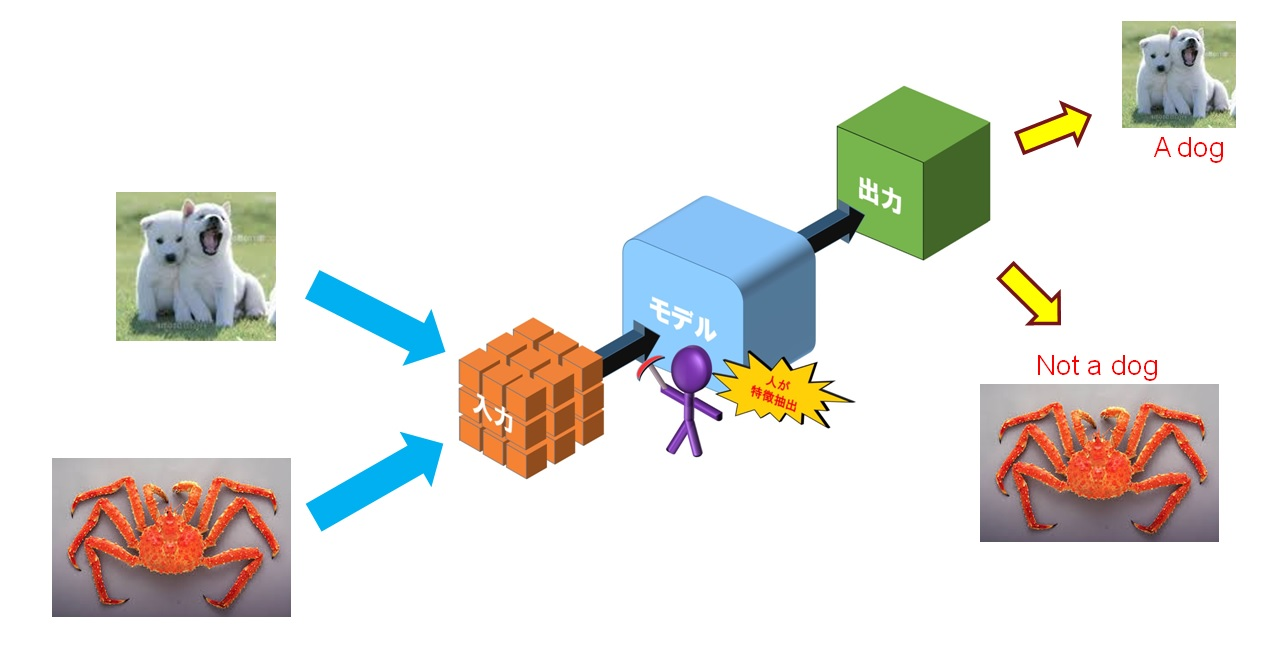
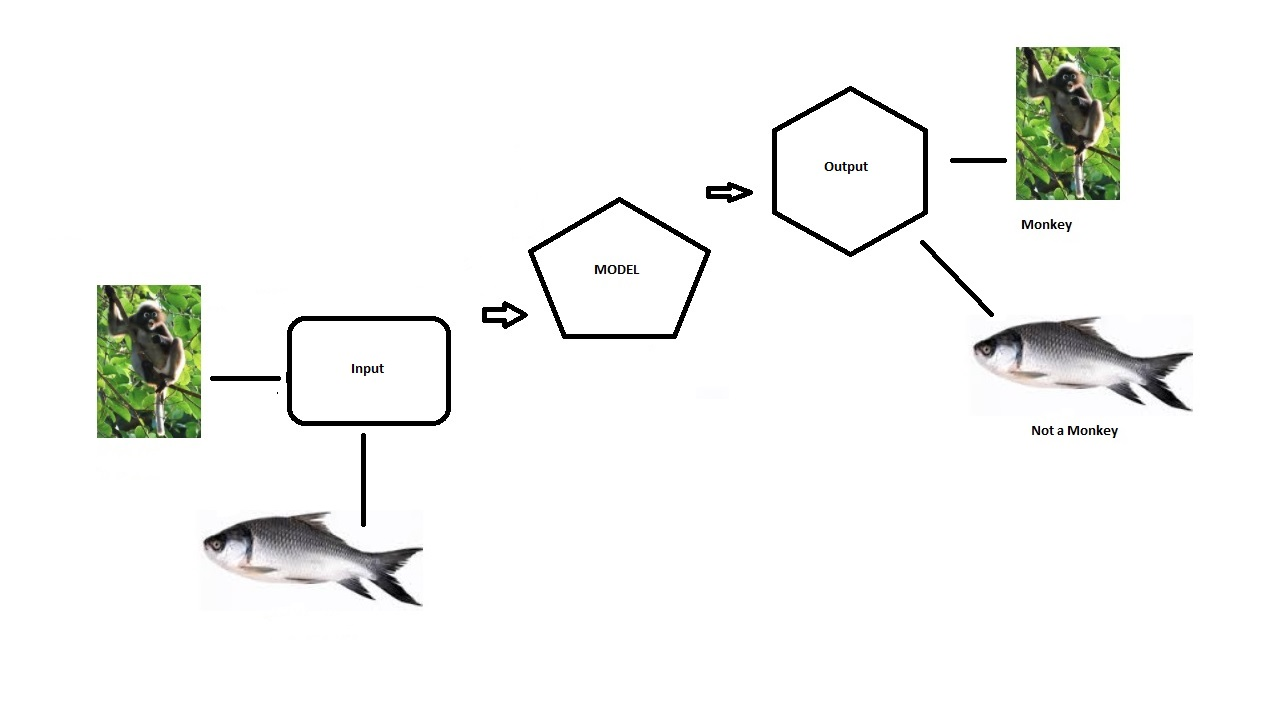
BLOGS

diff --git a/_posts/2016-09-18-Machine-Learning-Definition.md b/_posts/2016-09-18-Machine-Learning-Definition.md
@@ -9,7 +9,7 @@ tags:
   - learning
 ---
 
-You've been hearing about machine learning in the last few years, especially on the day on which AlphaGo was hotter than Donald Trump. You felt excited, you wanted to know what it is, or even more, you wanted to dig into it. But you just still can't get it? Let me help you this time. 
+You've been hearing about machine learning in the last few years, especially on the day on which AlphaGo was hotter than Modi ji. You felt excited, you wanted to know what it is, or even more, you wanted to dig into it. But you just still can't get it? Let me help you this time. 
 
 ### So, the very big question, and maybe the biggest reason which led you here: What exactly is Machine Learning?
 
@@ -21,29 +21,28 @@ Still confused? Let's see something cool instead.
 
 So as you can see in the picture, we have a model (the big one in the middle), an input which takes care of something call (Feature, Label) and an output which gives us something call Activation. So what the hell are all these things?
 
-Let's imagine you want the computer to do you a favor: to tell you whether there is a dog in an image. So it becomes much clearer when I match up everything like the image below:
+Let's imagine you want the computer to do you a favor: to tell you whether there is a spectacle monkey in an image. So it becomes much clearer when I match up everything like the image below:
 
 ![Image_2](/images/tutorials/what-is-machine-learning/2.jpg)
 
 Firstly, what is Features?
-If this is the first time you hear it, then congratulations, you will see this keyword everywhere, everywhen from now on (as long as you keep up with Machine Learning, of course). So let's make it simple. Look at the dog. He has four legs (like the other dogs on Earth), his nose is black, he is hanging out his tongue, he has a tail, ... Yeah, those are what come up when you see this dog, and importantly, you will see those in other dogs too. So it turns out to be some distinct features
-which make human's brain know it just saw a dog. Wait a minute, did I just say Features? Well, I hope you get the point here. So, Features are something distinct that make something different than the others. Human's brain recognises something by their Features, so why don't we teach the computer that trick? (Come on, don't be that selfish man)
+If this is the first time you hear it, then congratulations, you will see this keyword everywhere. So let's make it simple. Look at the Spectacle Monkey. She has a Prehensile Tail (like the other monkeys on Earth), her eye has a white spectacle mark, she is hanging out her tail, she has a rounded human like face, ... Yeah, those are what come up when you see this monkey, and importantly, you will see those in other monkeys too. So it turns out to be some distinct features that make human's brain know it just saw a monkey. Wait a minute, did I just say Features? Well, I hope you get the point here. So, Features are something distinct that make something different than the others. Human's brain recognises something by their Features, so why don't we teach the computer that trick?
 
-I know you're excited now. Ready to move on? So what about Label? Well, it's much simpler than the Feature. Label is a name of guys who have specific features. So we call guy who have four legs, one black nose, one long tongue and one long tail a DOG. Well, I just can't make it simpler. So what about the other guys? At this time, I just call them "Not a dog". Maybe you will ask me why I don't make it more specific, just like "a Cat", "a Bird" or something. You will have the answer when we come to Logistic Regression. Oh my God, please don't care about that name. I'll remind you when the time is up. So please stay patient :) There is a lot of fun ahead, I promise.
+I know you're excited now. Ready to move on? So what about Label? Well, it's much simpler than the Feature. Label is the name of the guys who has specific features. So we call the guy who has two arms, one prehensile tail, two arms and spectacled eyes a Spectacled Monkey.So what about the other guys? At this time, I just call them "Not a Monkey". Maybe you will ask me why I don't make it more specific, just like "a Cat", "a Bird" or something. You will have the answer when we come to Logistic Regression. oh! teri, please don't care about that name. I'll remind you when the time comes. So please stay patient :) There is a lot of fun ahead, I promise.
 
-So I've talked about Features and Labels, but what to do next? Remember when we were kids, our parents bought us some picture books? Then we spent days after days, kept pointing in and speak out loud names of things we saw, with so much pride. Omg, my parents must be so patient with me back in the day. So what the hell does the childhood's story make sense here? Well, we will do exactly what our parents did. We show them images, a large amount of them, just like this:
+So I've talked about Features and Labels, but what next? Remember when we were kids, our parents bought us some picture books? Then we spent days after days, kept pointing in and speak out loud names of things we saw, with so much pride. Omg, my parents must be so patient with me back in the day. So what the hell does the childhood's story make sense here? Well, we will do exactly what our parents did. We show them images, a large amount of them, just like this:
 
 ![Image_3](/images/tutorials/what-is-machine-learning/3.jpg)
 
-As you can see, each image is labeled whether the image contains a dog. Just like what we did in the past, the computer will try to learn from the images we shown them. I said it LEARNS, not MEMORIZES. We could learn, so can the computer, right?
+As you can see, each image is labeled whether the image contains a spectacled monkey. Just like what we did in the past, the computer will try to learn from the images we shown them. I said it LEARNS, not MEMORIZES. We could learn, so can the computer, right?
 
-And lastly, what is Activation? Simply speaking, we can call it a Guess. Imagine your computer knew how to tell whether it saw a dog (we just assume that, we'll back to it right below), then you show it some image it has never seen before, so it has to Guess, based on its own mind. And you can easily figure it out, the Guess (or Activation) must be one of the Labels we taught them. (We can't teach them about Dogs, then force them to recognise a Cat, it doesn't make any sense right?)
+And lastly, what is Activation? Simply speaking, we can call it a Guess. Imagine your computer knew how to tell whether it saw a monkey (we just assume that, we'll back to it right below), then you show it some image it has never seen before, so it has to Guess, based on its own mind. And you can easily figure it out, the Guess (or Activation) must be one of the Labels we taught them. (We can't teach them about Monkeys, then force them to recognise a Human, it doesn't make any sense right?)
 
 To make it more concrete, let's see the image below:
 
 ![Image_4](/images/tutorials/what-is-machine-learning/4.jpg)
 
-Yeah, at least the computer can now distinguish between a Dog and a Crab. Wait! It doesn't know about a Crab, at this point it only know the second image is NOT a Dog. Okay, whatever, though. It gets better someday, definitely.
+Yeah, at least the computer can now distinguish between a Monkey and a Crow. Wait! It doesn't know about a Crow, at this point it only know the second image is NOT a Dog. Okay, whatever, though. It gets better someday, definitely.
 
 ### When we talk about Machine Learning, we talk about Features, Labels, Activations, and ...
 
@@ -52,26 +51,26 @@ So up to this point, I assume that you can draw your own sketch about what Machi
 ![Image_5](/images/tutorials/what-is-machine-learning/5.jpg)
 
 WAIT! Where're you going? Grabbing your algebraic book or something? Or just finding your PS4's controller? Take it easy, man. You won't even have to grab a pencil to do some maths today, I promise!
-So why the hell I shown you this? Because I'm afraid after you read this post, you'll run outside, tell your friends about Machine Learning, yeah you'll tell them about something like "four-leg feature", "long-tail feature", "a Dog", or "not a Dog"... Please don't do that. Sorry, I'm just joking, kind of over-joking. Let's get back to business. We all know about binary number (something like a switch with On-Off state, 0 or 1). And sadly, that's what computer can understand. So it won't see something like "four-leg feature", "long-tail feature". The things they actually see is just boring repeating 0s and 1s. All I want to say here is, Features, Labels & Activations, they're all matrices to computers. At this point I just want you to know it. (Maybe I don't even need to speak that long, right? Sorry, my bad again!)
+So why the hell I shown you this? Because I'm afraid after you read this post, you'll run outside, tell your friends about Machine Learning, yeah you'll tell them about something like "two-leg feature", "Prehensile feature", "a Monkey", or "not a Monkey"... Please don't do that. Sorry, I'm just joking, kind of over-joking. Let's get back to business. We all know about binary number (something like a switch with On-Off state, 0 or 1). And sadly, that's what computer can understand. So it won't see something like "two-leg feature", "long-tail feature". The things they actually see is just boring repeating 0s and 1s. All I want to say here is, Features, Labels & Activations, they're all matrices to computers. At this point I just want you to know it. (Maybe I don't even need to speak that long, right? Sorry, my bad again!)
 
 Let me summarize all the things we talked above by the image below:
 
 ![Image_7](/images/tutorials/what-is-machine-learning/7.jpg)
 
-Sounds familiar, right? Let's imagine the Dog recognition is taken place somewhere in the computer, we call it a Model. The final goal is to help create this. We don't create, we're just the helpers, the computer must handle it alone. Don't forget that it's the one that learns :)
+Sounds familiar, right? Let's imagine the Monkey recognition is taken place somewhere in the computer, we call it a Model. The final goal is to help create this. We don't create, we're just the helpers, the computer must handle it alone. Don't forget that it's the one that learns :)
 
 ### When we talk about Machine Learning, we talk about Features, Labels, Activations, and of course, a Model.
 
-So next step is, Training? Sounds like we're in the middle of the pitch and do some crazy training, just like Cristiano Ronaldo? No, of course we don't (or actually we can't). We're not training muscles, we're training the brain, the computer brain. That's the process when the computer learn from the images we shown it. But let's talk a little bit about how it learns. We won't even teach them (although we said machine LEARNING, so learning from what?)
-Imagine the label of each image is printed on the back so the computer can't see. I know you got it. Exactly what we do with our flashcards, the things you can't live without to prepare for your SAT, GMAT or something like that. Firstly, the computer will try to guess, without knowing anything about what a Dog should look like. Then it flips the back over, sees the answer, and learns. Yep, it learns from making MISTAKES. Just like human does, the bigger the mistake is, the faster it learns.
+So next step is, Training? Sounds like we're in the middle of the pitch and do some crazy training, just like Virat Kohli? No, of course we don't (or actually we can't). We're not training muscles, we're training the brain, the computer brain. That's the process when the computer learn from the images we shown it. But let's talk a little bit about how it learns. We won't even teach them (although we said machine LEARNING, so learning from what?)
+Imagine the label of each image is printed on the back so the computer can't see. I know you got it. Exactly what we do with our flashcards, the things you can't live without to prepare for your CAT, GMAT or something like that. Firstly, the computer will try to guess, without knowing anything about what a MOnkey should look like. Then it flips the back over, sees the answer, and learns. Yep, it learns from making MISTAKES. Just like human does, the bigger the mistake is, the faster it learns.
 
-Then next step is Evaluation? I assume we gave the computer 100 images (roughly 50 images of Dog, and 50 images of Not a dog). It will try to guess each image until it finish the 100th one. Then it counts the number of right guesses. For example, there are 69 right guesses, so it has a probability of 69% in recognising whether there is a dog. Not so bad, right? That's what we call Evaluation. The computer evaluates its own work:
+Then next step is Evaluation? I assume we gave the computer 100 images (roughly 50 images of Monkey, and 50 images of Not a Monkey). It will try to guess each image until it finish the 100th one. Then it counts the number of right guesses. For example, there are 73 right guesses, so it has a probability of 73% in recognising whether there is a Monkey. Not so bad, right? That's what we call Evaluation. The computer evaluates its own work:
 
 ![Image_8](/images/tutorials/what-is-machine-learning/8.jpg)
 
 But what if the evaluation result can't satisfy us? We just tell the computer about that, it will update its own Parameters. But what the hell are 'Parameters' here? So much new keywords today! (Maybe many of you want to tell me that!) Remember the Model I said above? Parameters are just something put into the Model, just like machines in the factory. If something goes wrong with the product, they just have them fixed. Exactly the same with Parameters. Simple, right? Just as the image above, let's call it 'θ'. Some other places you will see thay use 'W' for Weights, and 'b' for Biases, but right now for the sake of simplicity, just remember 'θ'. Don't ask me about the naming convention, I don't know! Everyone uses that, and you don't want everyone to look at you just like "What the hell that guy is talking about!" when you talk about Machine Learning, right?
 
-So the loop Training-Evaluating-Parameter Updating is actually the core of Machine Learning. Until now, I think you can accept this easily without hurt. Thanks again, cool Dogs in the beginning :)
+So the loop Training-Evaluating-Parameter Updating is actually the core of Machine Learning. Until now, I think you can accept this easily without hurt. Thanks again, cool Monkeys in the beginning :)
 
 ### The core of Machine Learning: Training - Evaluating - Parameter Updating then repeat!
 
